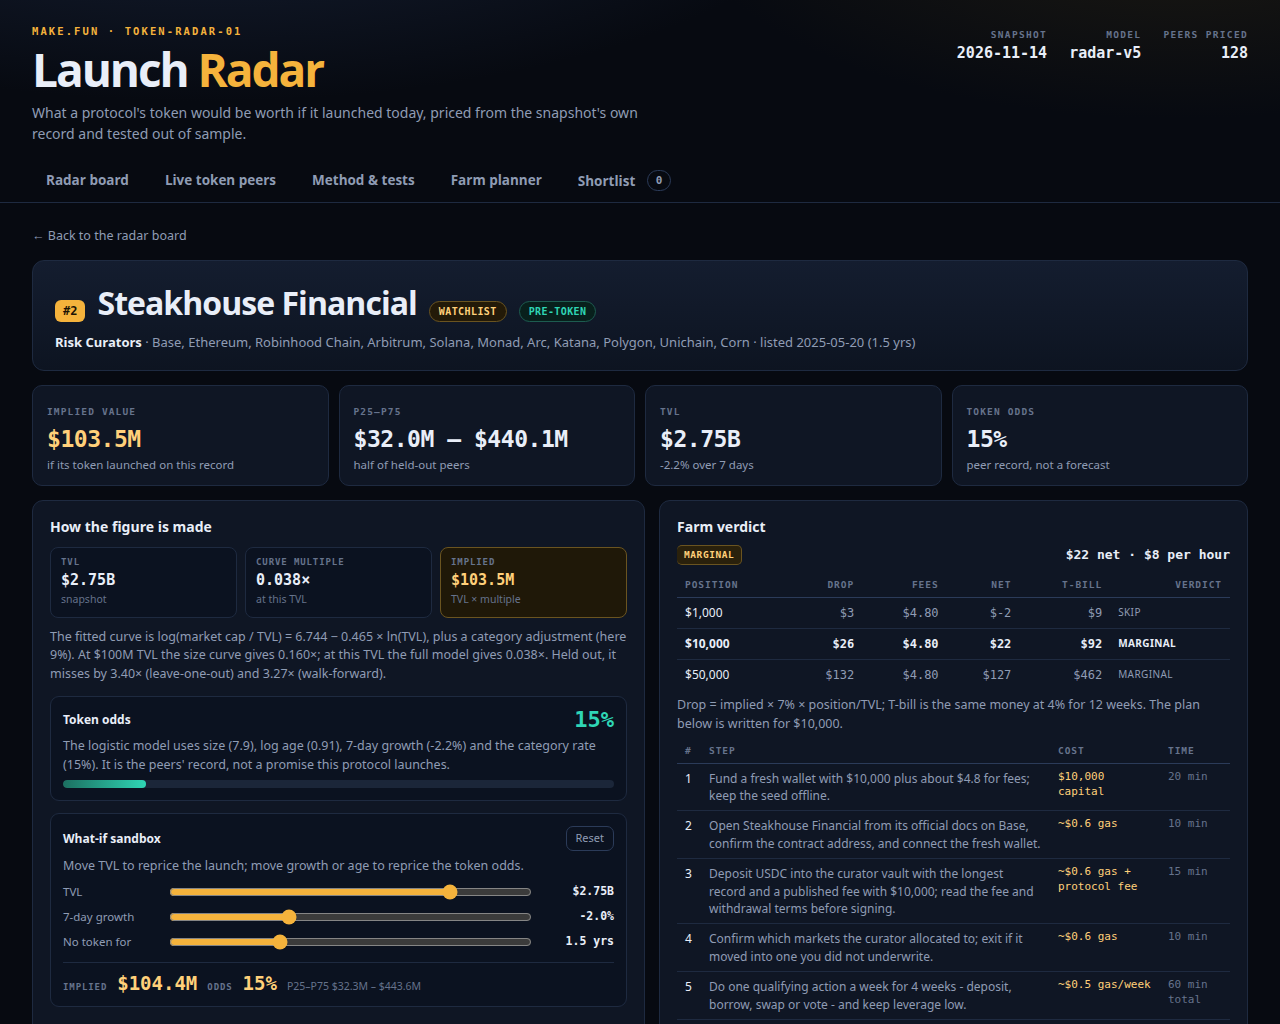
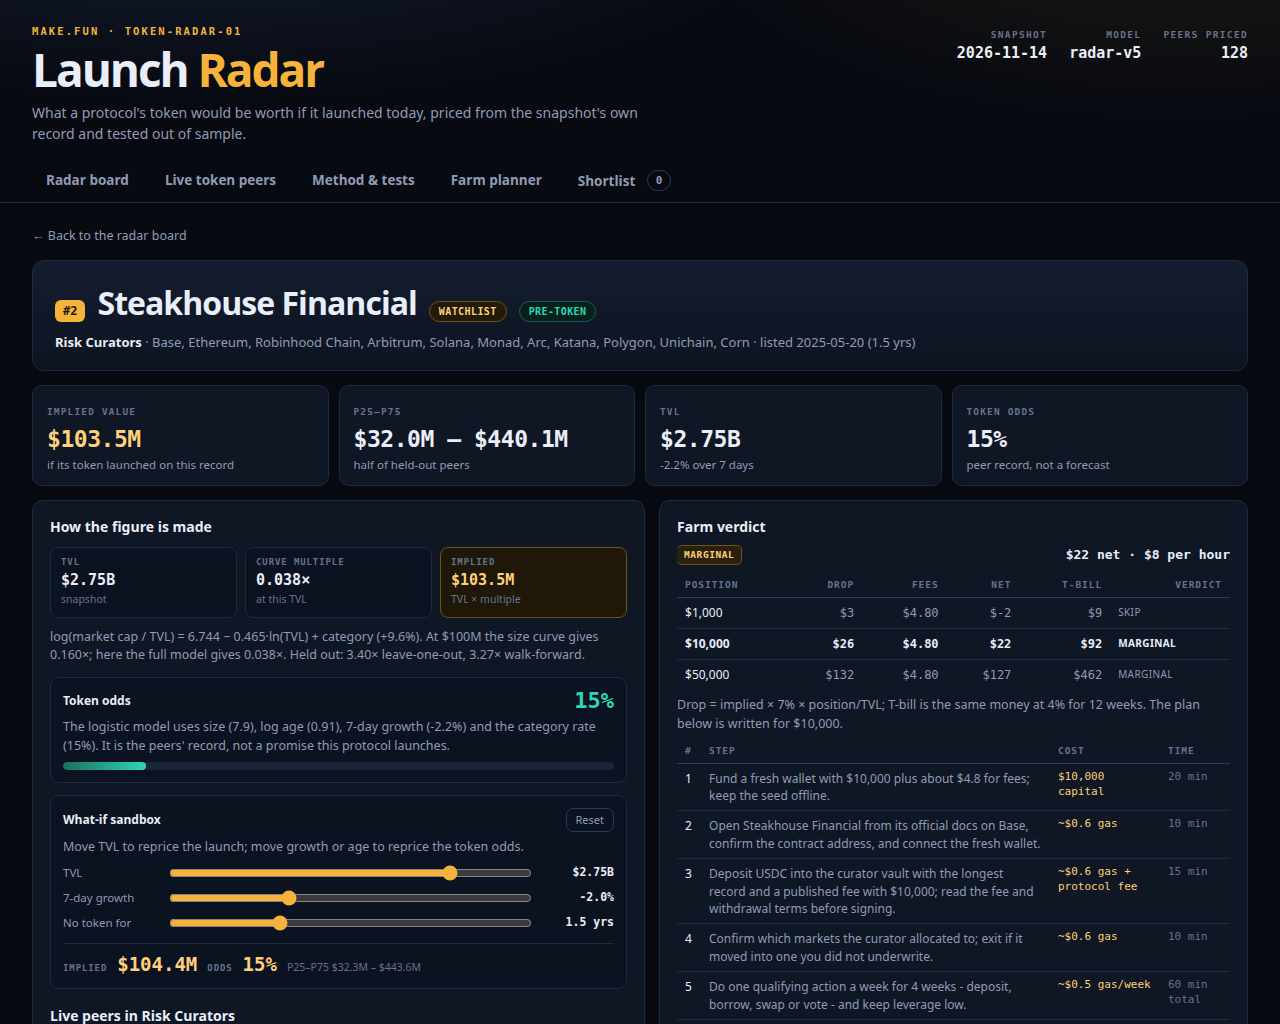
Show the category adjustment as a multiplier change
The detail printed the log adjustment as a percent (0.5 read as 50%
instead of +64.9%). Convert it with expm1 and carry the corrected
percentage in the model sentence.

Changed region(s): [[0.0312, 0.5938, 0.5, 1.0]]

diff --git a/dashboard/app.js b/dashboard/app.js
@@ -464,7 +464,8 @@
       terms.appendChild(d);
     });
     left.appendChild(terms);
-    left.appendChild(el('p', null, 'The fitted curve is log(market cap / TVL) = ' + R.model.value.intercept.toFixed(3) + ' ' + (R.model.value.slope < 0 ? '−' : '+') + ' ' + Math.abs(R.model.value.slope).toFixed(3) + ' × ln(TVL), plus a category adjustment (here ' + (r.categoryAdj * 100).toFixed(0) + '%). At $100M TVL the size curve gives ' + multi(R.model.value.multipleAt100m) + '; at this TVL the full model gives ' + multi(multiple) + '. Held out, it misses by ' + R.model.value.loo.toFixed(2) + '× (leave-one-out) and ' + R.model.value.wf.toFixed(2) + '× (walk-forward).'));
+    var adjPct = Math.expm1(r.categoryAdj) * 100;
+    left.appendChild(el('p', null, 'log(market cap / TVL) = ' + R.model.value.intercept.toFixed(3) + ' ' + (R.model.value.slope < 0 ? '−' : '+') + ' ' + Math.abs(R.model.value.slope).toFixed(3) + '·ln(TVL) + category (' + (adjPct >= 0 ? '+' : '') + adjPct.toFixed(1) + '%). At $100M the size curve gives ' + multi(R.model.value.multipleAt100m) + '; here the full model gives ' + multi(multiple) + '. Held out: ' + R.model.value.loo.toFixed(2) + '× leave-one-out, ' + R.model.value.wf.toFixed(2) + '× walk-forward.'));
     var oddsBox = el('div', 'sandbox');
     var oddsHead = el('div', 'sbHead');
     oddsHead.appendChild(el('h4', null, 'Token odds'));
